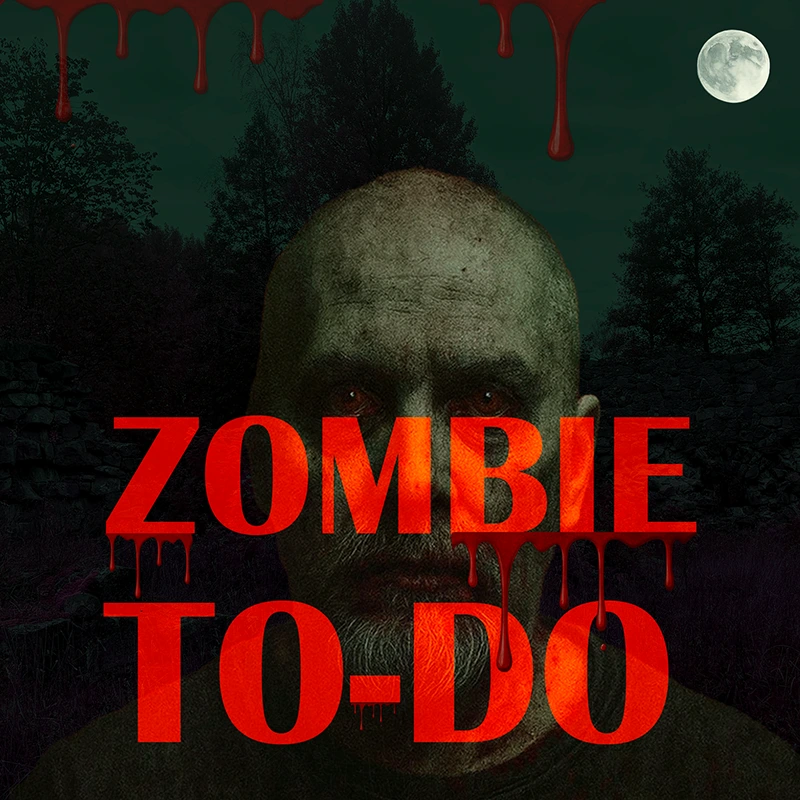
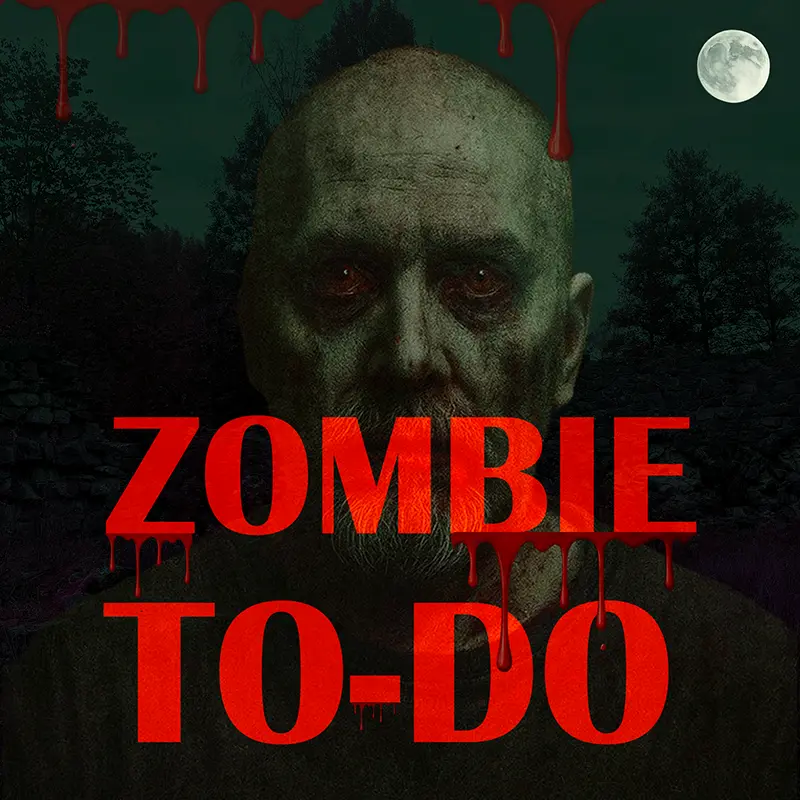
Aloitettu rekisteröinti- ja kirjautumislomake ja tyylit

Changed region(s): [[0.3438, 0.0625, 0.75, 0.9688]]

diff --git a/style.css b/style.css
@@ -12,3 +12,71 @@
    - Punaisissa veritehosteissa
    - Kauhuelokuvamaisessa fontissa
    ================================ */
+
+   body {
+    margin: 0;
+    padding: 0;
+    /* taustakuva pysyy paikallaan kun rullaat — fixed */
+    background: url('assets/img/Kansikuva.webp') center/cover no-repeat fixed;
+    font-family: 'Courier New', monospace;
+    color: #ff4444;
+    text-shadow: 2px 2px black;
+}
+
+/* Veriantimaatio — valuu yläreunasta ja häviää */
+.blood {
+    width: 100%;
+    height: 150%;
+    background: url('assets/img/blood.webp') top center no-repeat;
+    background-size: cover;
+    position: absolute;
+    top: 0;
+    left: 0;
+    pointer-events: none;
+    z-index: 10;
+    animation: bloodDisappear 4s ease-out forwards;
+}
+
+@keyframes bloodDisappear {
+    0%   { opacity: 0; transform: translateY(-20px); }
+    20%  { opacity: 1; transform: translateY(0); }
+    60%  { opacity: 1; }
+    100% { opacity: 0; }
+}
+
+/* Sisältökortti — kelluva keskellä sivua */
+.container {
+    width: 100%;
+    max-width: 600px;
+    margin: 20px auto 40px auto;
+    background: rgba(0, 0, 0, 0.75);
+    padding: 20px;
+    border: 3px solid #4a0000;
+    box-shadow: 0 0 25px #000;
+    position: relative;
+    z-index: 20;
+}
+
+/* Hero-kuva — logo/otsikkokuva */
+.hero {
+    width: 80%;
+    margin: 0 auto 10px auto;
+    display: block;
+}
+
+/* WIP-banneri — vilkkuva teksti joka kertoo että sovellus on vielä keskeneräinen */
+.wip-banner {
+    text-align: center;
+    font-family: Impact, sans-serif;
+    font-size: 1rem;
+    letter-spacing: 2px;
+    color: #bb4444;
+    margin-bottom: 5px;
+    animation: pulse 2s ease-in-out infinite; /* Hengittävä vilkutus */
+}
+
+@keyframes pulse {
+    0%   { opacity: 1; }
+    50%  { opacity: 0.4; }
+    100% { opacity: 1; }
+}

diff --git a/index.php b/index.php
@@ -20,3 +20,30 @@
 // käyttäjä ohjataan takaisin kirjautumaan.
 // Sisäänpääsy ei siis säily ikuisesti.
 // ================================
+?>
+<!DOCTYPE html>
+<html lang="fi">
+<head>
+    <meta charset="UTF-8"> <!-- Merkistö — tukee suomen kielen merkkejä -->
+    <meta name="viewport" content="width=device-width, initial-scale=1.0"> <!-- Skaalautuu eri laitteille -->
+    <title>Zombie To-Do</title>
+    <meta name="description" content="Zombie To-Do — selviä apokalypsistä hallitsemalla tehtäväsi. Kirjaudu sisään ja pidä zombit loitolla."> <!-- Selaimen ja hakukoneiden kuvausteksti -->
+    <link rel="icon" type="image/png" href="assets/img/favicon.png "> <!-- Selaimen välilehden ikoni -->
+    <link rel="stylesheet" href="style.css"> <!-- Sovelluksen omat tyylit -->
+</head>
+<body>
+    <!-- Veriantimaatio — valuu sivun yläreunasta ja häviää -->
+    <div class="blood"></div>
+
+    <!--Pääkontaineri joka sisältää kaikki sivun elementit ja toiminnallisuudet.-->
+    <div class="container">
+
+    <!--Herokuva — suuri kuva joka esittelee sovelluksen teeman ja tunnelman.-->
+    <img src="assets/img/Herokuva.webp" class="hero" alt="Zombie To-Do" fetchpriority="high">
+
+    <!-- WIP-banneri — näkyy sivun yläosassa kun sovellus on kehitysvaiheessa -->
+    <div class="wip-banner">🧠 WORK IN PROGRESS… BRAINS LOADING 🩸</div>
+
+</div>
+</body>
+</html>
